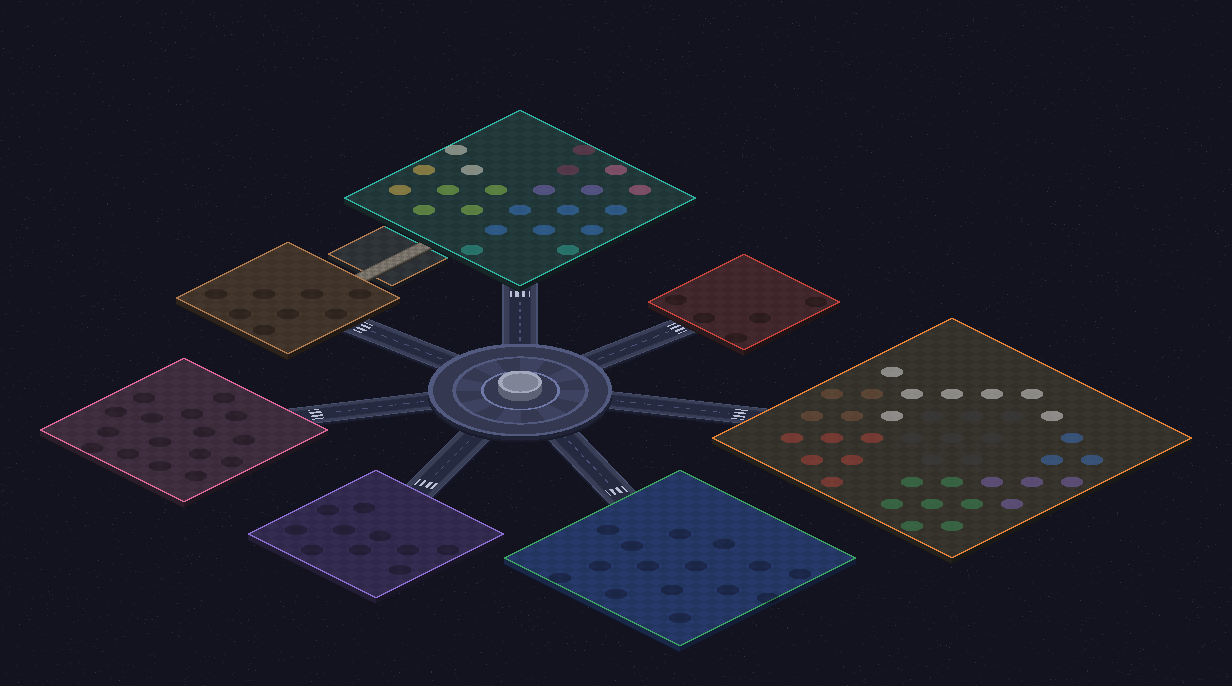
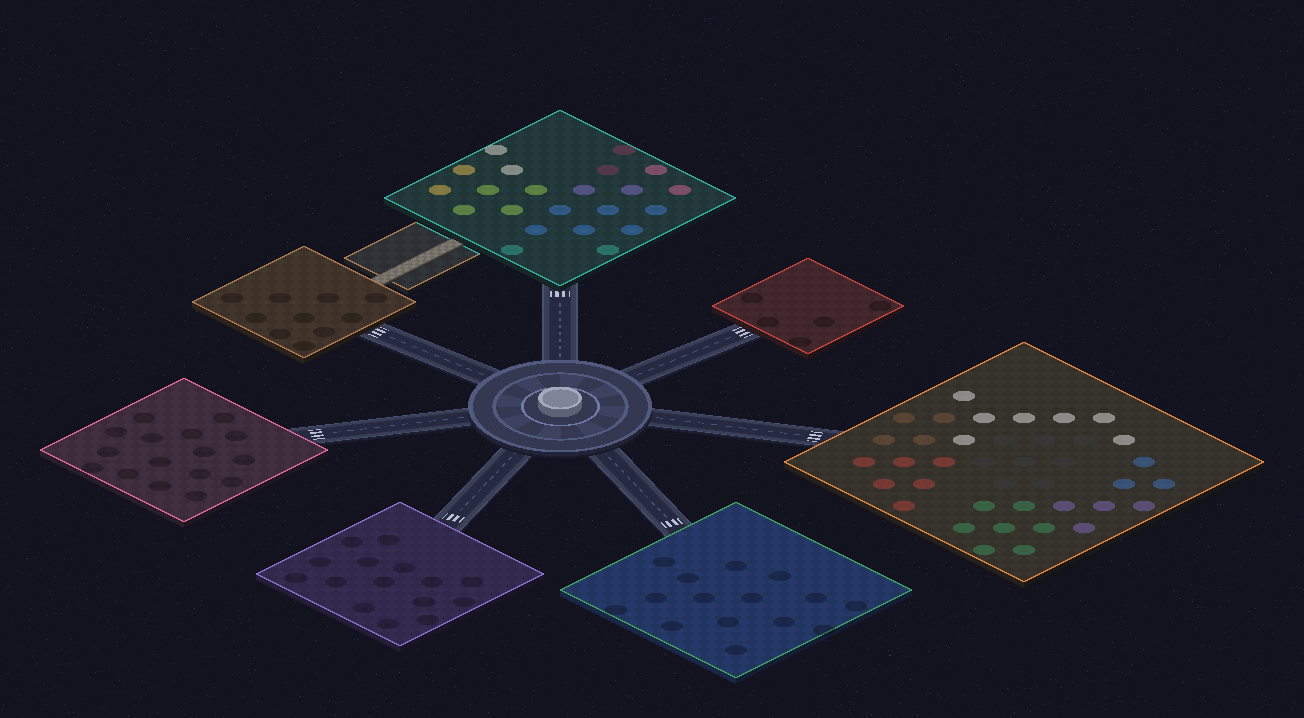
Arrivano 7 skill: teach e anatomy all'Università, ponytail e free-llm-apis al Municipio
- Università: teach (lavagnetta) e anatomy (cubo isometrico), con le linee "Lavora con"
  da anatomy verso Atelier, teach e Officina
- Municipio allargato da 16 a 18: ponytail, ponytail-review, ponytail-audit e
  ponytail-debt col codino del Pacchetto ponytail, free-llm-apis col salvadanaio
- Infrastrutture nuove: Pacchetto ponytail e Server free-llm

diff --git a/citta.js b/citta.js
@@ -38,6 +38,10 @@ const INFRA = {
                desc: "I tuoi repository GitHub: issue, pull request, CI e rilasci, col comando gh (sul Mac non è ancora installato). data-scraper-agent ci gira sopra, con GitHub Actions." },
   context7:  { nome: "Context7", colore: "#2fb37a", edificio: null, titolo: "Context7", segno: "adesivo verde col 7 sull'elmetto",
                desc: "Il server MCP con la documentazione aggiornata delle librerie. Non è ancora installato: senza, le skill ripiegano sui siti ufficiali." },
+  ponytail:  { nome: "Pacchetto ponytail", colore: "#d9718f", edificio: null, titolo: "Pacchetto ponytail", segno: "codino grigio con l'elastico rosa",
+               desc: "Il plugin ponytail e i suoi hook: a ogni sessione accendono la modalità «sviluppatore pigro», che cerca la soluzione più corta che funziona. Il registro dei compiti resta sul Mac." },
+  freellm:   { nome: "Server free-llm", colore: "#f4a7bb", edificio: null, titolo: "Server free-llm", segno: "nessuno: lo usa solo free-llm-apis",
+               desc: "Il server MCP che passa ai modelli gratuiti (Gemini, Groq, Mistral…) i lavori lunghi e semplici, come riassunti e traduzioni, per risparmiare i limiti di Claude. Usa le chiavi configurate con free-llm-apis." },
 };
 const EDIFICIO_INFRA = { torre: "dati", banca: "broker", archivio: "edgar", biblioteca: "notion", palazzo: "skills", ufficio: "impostazioni",
                          posta: "gmail", plaud: "plaud", studio: "canva", capannone: "orch", magazzino: "github" };
@@ -393,6 +397,14 @@ function disegnaMondo(t) {
       const spento = (infraSel && infraSel !== k) || (nomeSel && nomeSel !== e.nome);
       const a = acceso ? 1 : spento ? .12 : .4;
       linea(c[0], c[1], e.x, e.y, hexA(inf.colore, a), [3, 3], -Math.floor(t / 90));
+    }
+    // "lavora con" (dalla scheda): una skill verso quelle che usa insieme a lei, col colore del loro quartiere
+    for (const e of abitanti) for (const n of Object.keys(e.s.lavora_con || {})) {
+      const p0 = posizione(e.nome), p1 = posizione(n), d = D.skill[n] && M.distretti[D.skill[n].distretto];
+      if (!p0 || !p1 || !d) continue;
+      const acceso = nomeSel === e.nome || nomeSel === n;
+      const a = acceso ? .95 : nomeSel || infraSel ? .08 : .35;
+      linea(p0[0], p0[1], p1[0], p1[1], hexA(d.colore, a), [1, 3], -Math.floor(t / 120));
     }
   }
 
@@ -819,6 +831,8 @@ function schedaSkill(nome) {
   const maxI = insieme.length ? insieme[0][1] : 1;
   const statoTesto = st === "oggi" ? "al lavoro oggi" : st === "settimana" ? "usata questa settimana" : s.chiamate ? "dorme da più di una settimana" : "dorme: mai usata da quando registro";
   const d = s.distretto && M.distretti[s.distretto];
+  const lavora = Object.entries(s.lavora_con || {}).concat(Object.entries(D.skill)
+    .filter(([, x]) => x.lavora_con && x.lavora_con[nome]).map(([n, x]) => [n, x.lavora_con[nome]]));
   return `
     <div class="testa-scheda">${ritratto(e ? e.sprite : "turista")}
       <div><h2>${esc(nome)}</h2>${etichettaDistretto(s.distretto)}<br><span class="stato ${st}">${statoTesto}</span></div></div>
@@ -832,6 +846,8 @@ function schedaSkill(nome) {
     <h3>Come la usi</h3>${barraModi(s.modi)}
     ${s.infra.length ? `<h3>Infrastrutture condivise</h3><div class="pillole">${s.infra.map(k =>
       `<button type="button" class="pillola" data-infra="${k}" style="border-color:${INFRA[k].colore}">${esc(INFRA[k].nome)} <small>${esc(INFRA[k].segno)}</small></button>`).join("")}</div>` : ""}
+    ${lavora.length ? `<h3>Lavora con</h3><div class="lista">${lavora.map(([n, perche]) => `<button type="button" class="riga" data-skill="${esc(n)}">
+      <span>${esc(n)} <small>${esc(perche)}</small></span>${etichettaDistretto(D.skill[n] && D.skill[n].distretto)}</button>`).join("")}</div>` : ""}
     <h3>Usata insieme a</h3>
     ${insieme.length ? `<div class="lista">${insieme.map(([n, k]) => `<button type="button" class="riga" data-skill="${esc(n)}">
       <span>${esc(n)}</span><span class="n">${k}×</span></button><div class="barretta" style="width:${100 * k / maxI}%"></div>`).join("")}</div>`
